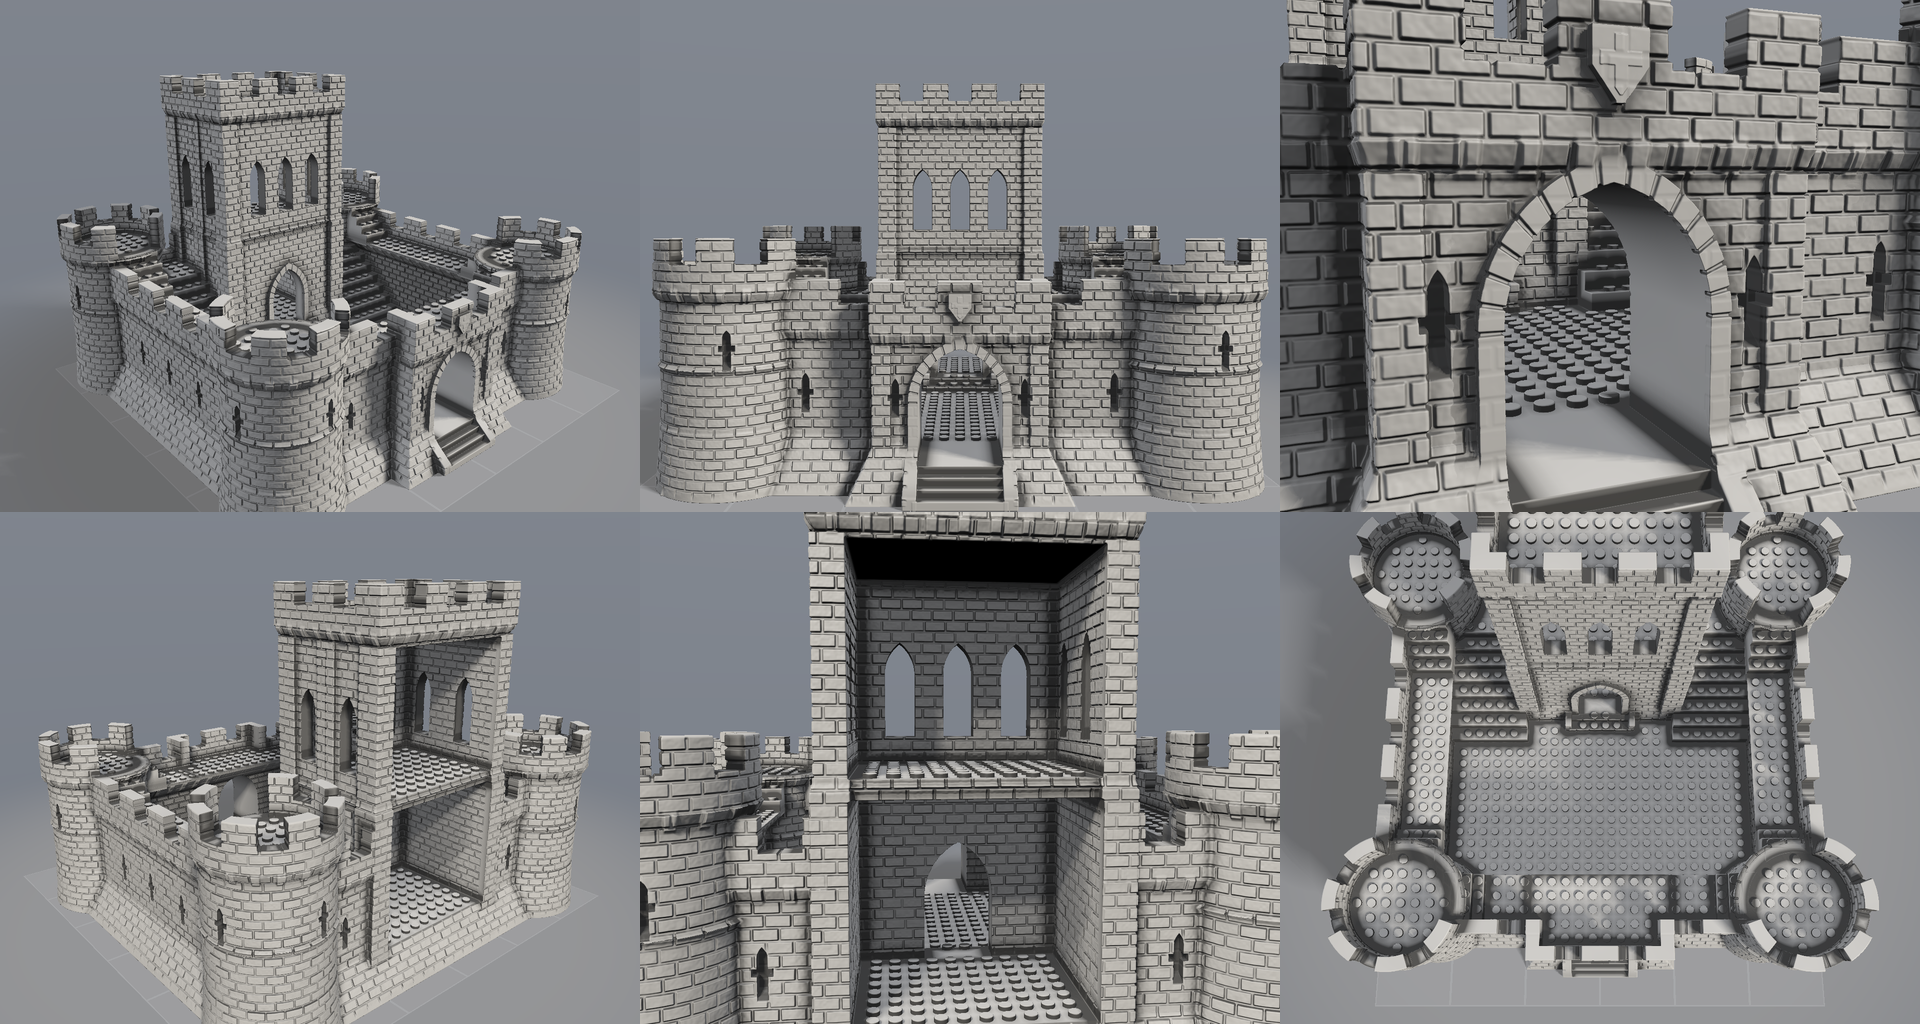
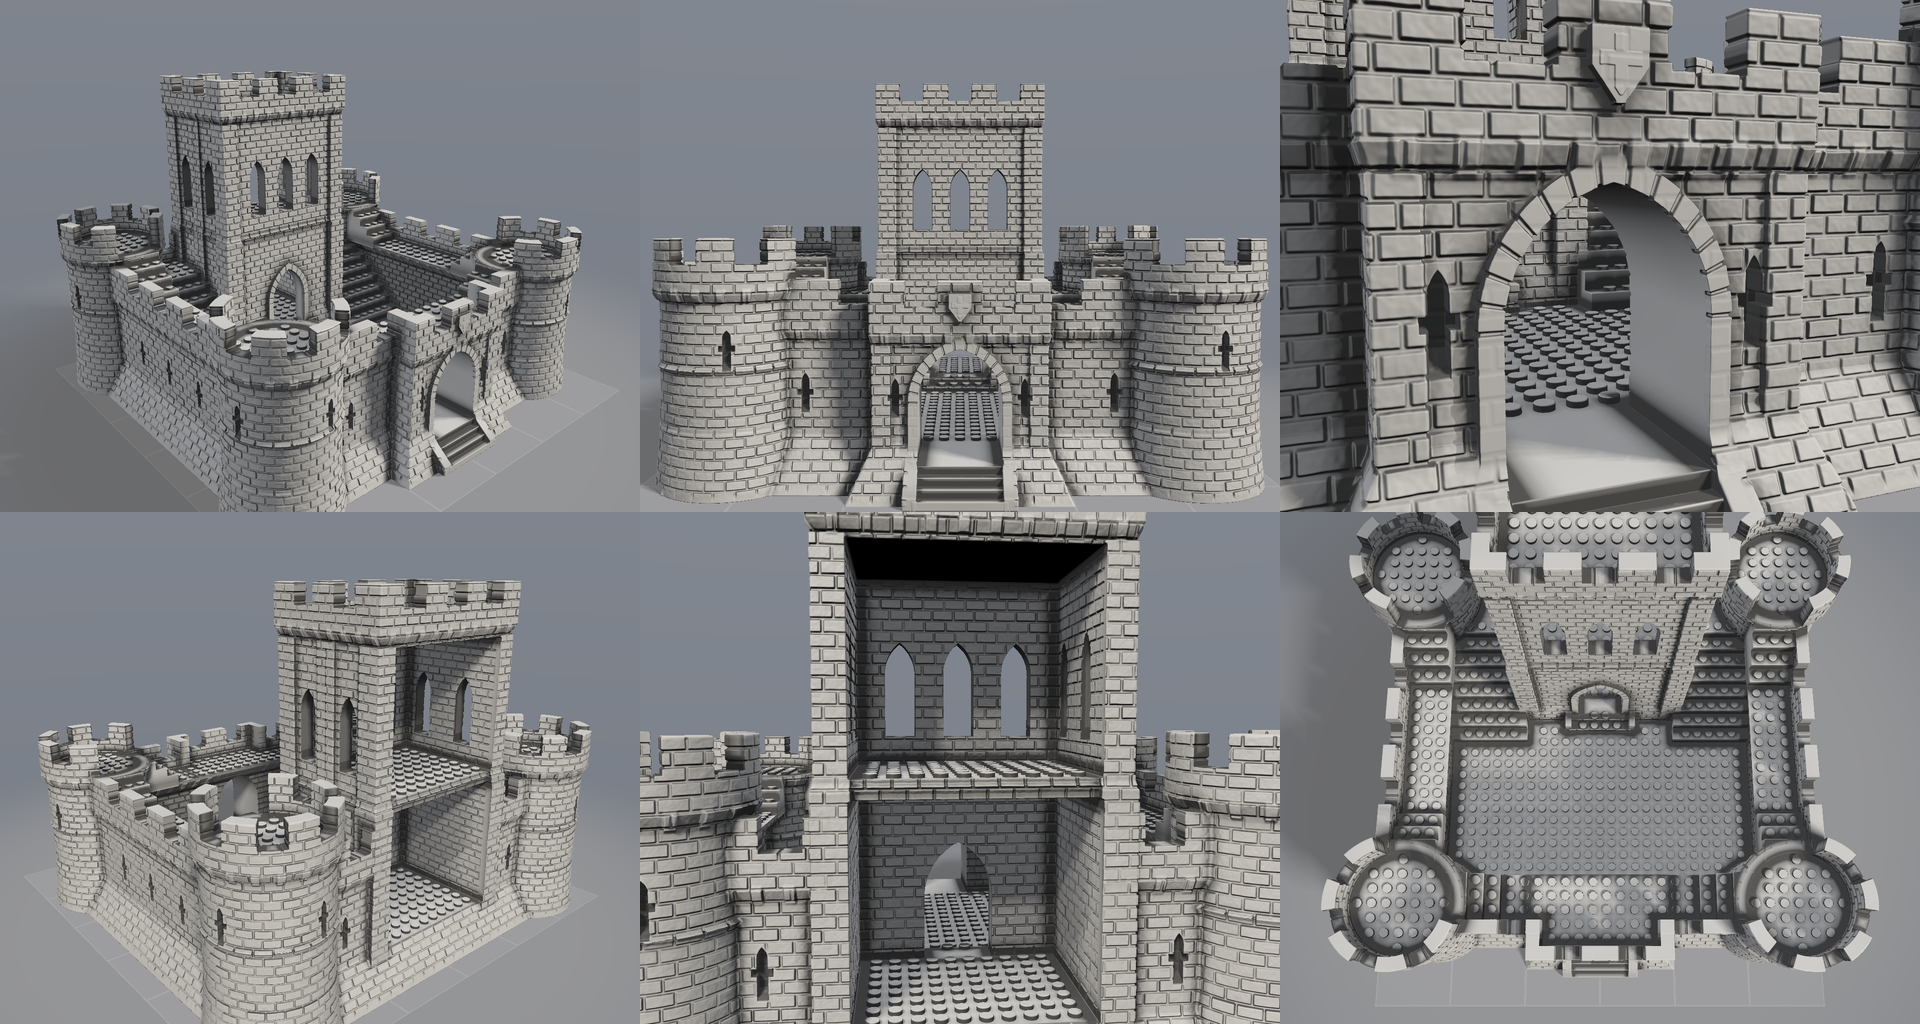
Iterated on LEGO studs. I think they are correct now.

diff --git a/castle/castle_sculptor.cpp b/castle/castle_sculptor.cpp
@@ -87,8 +87,8 @@ namespace CastleSpec {
     static constexpr float TWR_F_R_IN = 28.1f;
     static constexpr float TWR_R_R_IN = 28.6f;
 
-    // Rear turret stair step elevations (steps 0..2 stay below 97 mm side parapet; step 3 enters turret crown)
-    static constexpr float TWR_R_STAIR_Z[4] = {81.60f, 88.20f, 94.80f, Z_TWR_R_DECK};
+    // Rear turret stair step elevations (4 uniform 6.75 mm rises from 75 -> 102; steps 0..2 stay < 97 mm parapet)
+    static constexpr float TWR_R_STAIR_Z[4] = {81.75f, 88.50f, 95.25f, Z_TWR_R_DECK};
 
     // Outward-bulging gatehouse (identical size/details; shifted +8.0 mm in +Y flush with front curtain wall)
     static constexpr float GH_HALF_X      = 38.0f;
@@ -113,9 +113,9 @@ namespace CastleSpec {
     static constexpr float KEEP_HX = 0.5f * (KEEP_X1 - KEEP_X0); // 52.0f
     static constexpr float KEEP_HY = 0.5f * (KEEP_Y1 - KEEP_Y0); // 37.25f
 
-    // Precision FDM-tolerant LEGO-compatible stud parameters (calibrated from test print: 4.70 -> 4.60 mm printed)
+    // Precision FDM-tolerant LEGO-compatible stud parameters (calibrated from 2 test prints: +0.20 mm -> 5.10 mm)
     static constexpr float LEGO_PITCH   = 8.00f; // exact standard LEGO stud pitch
-    static constexpr float LEGO_STUD_R  = 2.45f; // 4.90 mm modeled -> ~4.80 mm printed for crisp minifig click!
+    static constexpr float LEGO_STUD_R  = 2.55f; // 5.10 mm modeled for tight LEGO minifigure foot grip!
     static constexpr float LEGO_STUD_H  = 1.70f; // standard LEGO stud height
     static constexpr float LEGO_CHAMFER = 0.20f; // 0.20 mm 45-deg lead-in top chamfer
 
@@ -663,8 +663,8 @@ inline float legoStudsSDF(const Vec3& p, float curD = 1e6f) {
     // 1. OPEN COURTYARD FLOOR (z = Z_COURT, skipping smooth gate tunnel y < -80.5 & front turret plinth discs)
     if (p.z > Z_COURT - 2.0f && p.z < Z_COURT + 3.5f) {
         // Main courtyard grid: x in [-96, +96] (25 cols, pitch 8), y in [-75, +21] (13 rows, pitch 8)
-        float dxB = std::max(-98.5f - p.x, p.x - 98.5f);
-        float dyB = std::max(-77.5f - p.y, p.y - 23.5f);
+        float dxB = std::max(-99.0f - p.x, p.x - 99.0f);
+        float dyB = std::max(-78.0f - p.y, p.y - 24.0f);
         float dzB = std::max((Z_COURT - 0.85f) - p.z, p.z - (Z_COURT + LEGO_STUD_H));
         if (std::max(dxB, std::max(dyB, dzB)) < ds) {
             int ix = (int)std::lround((p.x + 96.0f) / LEGO_PITCH);
@@ -712,33 +712,33 @@ inline float legoStudsSDF(const Vec3& p, float curD = 1e6f) {
 
     // 4. WALL WALKS + GATEHOUSE TOP DECK + REAR STAIR LANDINGS (all on exact z = Z_WALL_DECK)
     if (p.z > Z_WALL_DECK - 1.5f && p.z < Z_WALL_DECK + 3.5f) {
-        // Front wall walk (3 rows x 16 cols: x = ±4..±60, y = -73.9, -81.9, -89.9; shifted +8 mm with front wall)
-        ds = sdStudGrid(p, -60.0f, 16, -89.9f, 3, Z_WALL_DECK, ds);
+        // Front wall walk (3 rows x 14 cols: x = ±4..±52, y = -73.9, -81.9, -89.9; 5.5 mm clear of 4b stair riser at ±57.5)
+        ds = sdStudGrid(p, -52.0f, 14, -89.9f, 3, Z_WALL_DECK, ds);
         // Gatehouse outward bulge extra 2 front rows (2 rows x 8 cols: x = ±4..±28, y = -97.9, -105.9)
         ds = sdStudGrid(p, -28.0f,  8, -105.9f, 2, Z_WALL_DECK, ds);
-        // Left & Right side wall walks (3 cols x 12 rows per side: |x| = 98, 106, 114; y = -37.6..+50.4, 8 mm shorter!)
-        ds = sdStudGrid(ap, 98.0f,  3, -37.6f, 12, Z_WALL_DECK, ds);
+        // Left & Right side wall walks (3 cols x 10 rows per side: |x| = 98, 106, 114; y = -29..+43, 5.5 mm clear of both risers!)
+        ds = sdStudGrid(ap, 98.0f,  3, -29.0f, 10, Z_WALL_DECK, ds);
         // Rear stair landings (2 cols x 3 rows per side: |x| = 60, 68; y = 98, 106, 114; clear of wider rear turrets)
         ds = sdStudGrid(ap, 60.0f,  2,  98.0f,  3, Z_WALL_DECK, ds);
     }
 
-    // 5. TURRET ACCESS STAIRS (Front turret side/front steps + Rear turret steps)
+    // 5. TURRET ACCESS STAIRS (Full unobstructed 8.50 mm LEGO-element treads completely clear of turret crowns!)
     if (p.z > Z_WALL_DECK + 4.0f && p.z < Z_TWR_R_DECK - 3.0f) {
-        // Front turret side stairs (4a): s=0 (y=-47, z=81.33) & s=1 (y=-53, z=87.67), |x|=98,106,114
-        if (ap.x > 93.0f && p.y < -42.0f && p.y > -58.0f) {
-            ds = sdStudGrid(ap, 98.0f, 3, -47.0f, 1, 81.33f, ds);
-            ds = sdStudGrid(ap, 98.0f, 3, -53.0f, 1, 87.67f, ds);
+        // Front turret side stairs (4a): s=0 (y=-38.75, z=81.33) & s=1 (y=-47.25, z=87.67), |x|=98,106,114
+        if (ap.x > 93.0f && p.y < -34.0f && p.y > -52.0f) {
+            ds = sdStudGrid(ap, 98.0f, 3, -38.75f, 1, 81.33f, ds);
+            ds = sdStudGrid(ap, 98.0f, 3, -47.25f, 1, 87.67f, ds);
         }
-        // Front turret front stairs (4b): s=0 (|x|=70, z=81.33) & s=1 (|x|=76, z=87.67), y=-89.9,-81.9,-73.9
-        if (ap.x > 65.0f && ap.x < 81.0f && p.y < -69.0f && p.y > -95.0f) {
-            ds = sdStudGrid(ap, 70.0f, 1, -89.9f, 3, 81.33f, ds);
-            ds = sdStudGrid(ap, 76.0f, 1, -89.9f, 3, 87.67f, ds);
+        // Front turret front stairs (4b): s=0 (|x|=61.75, z=81.33) & s=1 (|x|=70.25, z=87.67), y=-89.9,-81.9,-73.9
+        if (ap.x > 57.0f && ap.x < 75.0f && p.y < -69.0f && p.y > -95.0f) {
+            ds = sdStudGrid(ap, 61.75f, 1, -89.9f, 3, 81.33f, ds);
+            ds = sdStudGrid(ap, 70.25f, 1, -89.9f, 3, 87.67f, ds);
         }
-        // Rear turret side stairs (4c): s=0,1,2 (y=60.05, 66.55, 73.05; z=TWR_R_STAIR_Z[0..2]), |x|=98,106,114
-        if (ap.x > 93.0f && p.y > 55.0f && p.y < 78.0f) {
-            ds = sdStudGrid(ap, 98.0f, 3, 60.05f, 1, TWR_R_STAIR_Z[0], ds);
-            ds = sdStudGrid(ap, 98.0f, 3, 66.55f, 1, TWR_R_STAIR_Z[1], ds);
-            ds = sdStudGrid(ap, 98.0f, 3, 73.05f, 1, TWR_R_STAIR_Z[2], ds);
+        // Rear turret side stairs (4c): s=0,1,2 (y=52.75, 61.25, 69.75; z=TWR_R_STAIR_Z[0..2]), |x|=98,106,114
+        if (ap.x > 93.0f && p.y > 48.0f && p.y < 75.0f) {
+            ds = sdStudGrid(ap, 98.0f, 3, 52.75f, 1, TWR_R_STAIR_Z[0], ds);
+            ds = sdStudGrid(ap, 98.0f, 3, 61.25f, 1, TWR_R_STAIR_Z[1], ds);
+            ds = sdStudGrid(ap, 98.0f, 3, 69.75f, 1, TWR_R_STAIR_Z[2], ds);
         }
     }
 
@@ -990,40 +990,41 @@ inline float castleSDF(const Vec3& p) {
         float ax = std::fabs(p.x);
 
         // 4a. Side-wall stairs climbing from wall walk (z=75) -> Wider Front Corner Towers (z=94):
-        //     Spans FULL widened walkway width |x| in [93.0, 121.5] straight into the parapet wall -> ZERO crevice!
-        float d_sbF = sdBoxMinMax(Vec3(ax, p.y, p.z), 91.0f, 123.5f, -68.0f, -40.0f, Z_WALL_DECK - 4.0f, Z_TWR_F_DECK + 4.0f);
+        //     Full unobstructed 8.50 mm LEGO treads completely outside front turret crown (y = -34.5 -> -43.0 -> -51.5)!
+        float d_sbF = sdBoxMinMax(Vec3(ax, p.y, p.z), 91.0f, 123.5f, -69.0f, -32.5f, Z_WALL_DECK - 4.0f, Z_TWR_F_DECK + 4.0f);
         if (d_sbF < d + 2.5f) {
             float d_st = 1e9f;
             for (int s = 0; s < 3; ++s) {
-                float y_hi = -44.0f - s * 6.0f;
+                float y_hi = -34.5f - s * 8.5f;
                 float z_hi = Z_WALL_DECK + (s + 1) * ((Z_TWR_F_DECK - Z_WALL_DECK) / 3.0f);
-                d_st = std::min(d_st, sdBoxMinMax(Vec3(ax, p.y, p.z), 93.0f, 121.5f, -66.0f, y_hi, Z_WALL_DECK - 3.0f, z_hi, 0.35f));
+                d_st = std::min(d_st, sdBoxMinMax(Vec3(ax, p.y, p.z), 93.0f, 121.5f, -66.5f, y_hi, Z_WALL_DECK - 3.0f, z_hi, 0.35f));
             }
             d = smin(d, d_st, 0.35f);
         }
 
         // 4b. Front-wall stairs climbing from front wall walk (z=75) -> Wider Front Corner Towers (z=94):
-        //     Spans FULL widened walkway width y in [-98.5, -70.0] straight into front parapet -> ZERO crevice!
-        float d_sbFront = sdBoxMinMax(Vec3(ax, p.y, p.z), 63.0f, 91.0f, -100.5f, -68.0f, Z_WALL_DECK - 4.0f, Z_TWR_F_DECK + 4.0f);
+        //     Full unobstructed 8.50 mm LEGO treads completely outside front turret crown (|x| = 57.5 -> 66.0 -> 74.5)!
+        float d_sbFront = sdBoxMinMax(Vec3(ax, p.y, p.z), 55.5f, 92.0f, -100.5f, -68.0f, Z_WALL_DECK - 4.0f, Z_TWR_F_DECK + 4.0f);
         if (d_sbFront < d + 2.5f) {
             float d_st = 1e9f;
             for (int s = 0; s < 3; ++s) {
-                float x_lo = 67.0f + s * 6.0f;
+                float x_lo = 57.5f + s * 8.5f;
                 float z_hi = Z_WALL_DECK + (s + 1) * ((Z_TWR_F_DECK - Z_WALL_DECK) / 3.0f);
-                d_st = std::min(d_st, sdBoxMinMax(Vec3(ax, p.y, p.z), x_lo, 89.0f, -98.5f, -70.0f, Z_WALL_DECK - 3.0f, z_hi, 0.35f));
+                d_st = std::min(d_st, sdBoxMinMax(Vec3(ax, p.y, p.z), x_lo, 89.5f, -98.5f, -70.0f, Z_WALL_DECK - 3.0f, z_hi, 0.35f));
             }
             d = smin(d, d_st, 0.35f);
         }
 
         // 4c. Side-wall stairs climbing from wall walk (z=75) -> Wider Rear Corner Towers (z=102):
-        //     Steps 0..2 stay <= 94.8 mm (< side parapet 97.0 mm); step 3 starts at y=76.3 inside turret crown!
-        float d_sbR = sdBoxMinMax(Vec3(ax, p.y, p.z), 91.0f, 123.5f, 54.0f, 91.0f, Z_WALL_DECK - 4.0f, Z_TWR_R_DECK + 4.0f);
+        //     Full unobstructed 8.50 mm LEGO treads completely outside rear turret crown (y = 48.5 -> 57.0 -> 65.5 -> 74.0)!
+        float d_sbR = sdBoxMinMax(Vec3(ax, p.y, p.z), 91.0f, 123.5f, 46.5f, 91.5f, Z_WALL_DECK - 4.0f, Z_TWR_R_DECK + 4.0f);
         if (d_sbR < d + 2.5f) {
             float d_st = 1e9f;
             for (int s = 0; s < 4; ++s) {
-                float y_lo = 56.8f + s * 6.5f;
+                float y_lo = 48.5f + s * 8.5f;
                 float z_hi = TWR_R_STAIR_Z[s];
-                d_st = std::min(d_st, sdBoxMinMax(Vec3(ax, p.y, p.z), 93.0f, 121.5f, y_lo, 89.0f, Z_WALL_DECK - 3.0f, z_hi, 0.35f));
+                float x_hi = (s == 3) ? 118.9f : 121.5f; // step 3 (z=102) stays flush inside 97 mm side parapet
+                d_st = std::min(d_st, sdBoxMinMax(Vec3(ax, p.y, p.z), 93.0f, x_hi, y_lo, 89.5f, Z_WALL_DECK - 3.0f, z_hi, 0.35f));
             }
             d = smin(d, d_st, 0.35f);
         }
@@ -2273,7 +2274,7 @@ int main(int argc, char** argv) {
     }
 
     if (mode == "mesh" || mode == "final") {
-        float h = (argc > 3) ? std::stof(argv[3]) : 0.421f;
+        float h = (argc > 3) ? std::stof(argv[3]) : 0.443f;
         size_t targetTris = (argc > 4) ? (size_t)std::stoull(argv[4]) : 2000000ULL;
         std::string stlPath = outDir + "/medieval_castle_290x215.stl";
 
